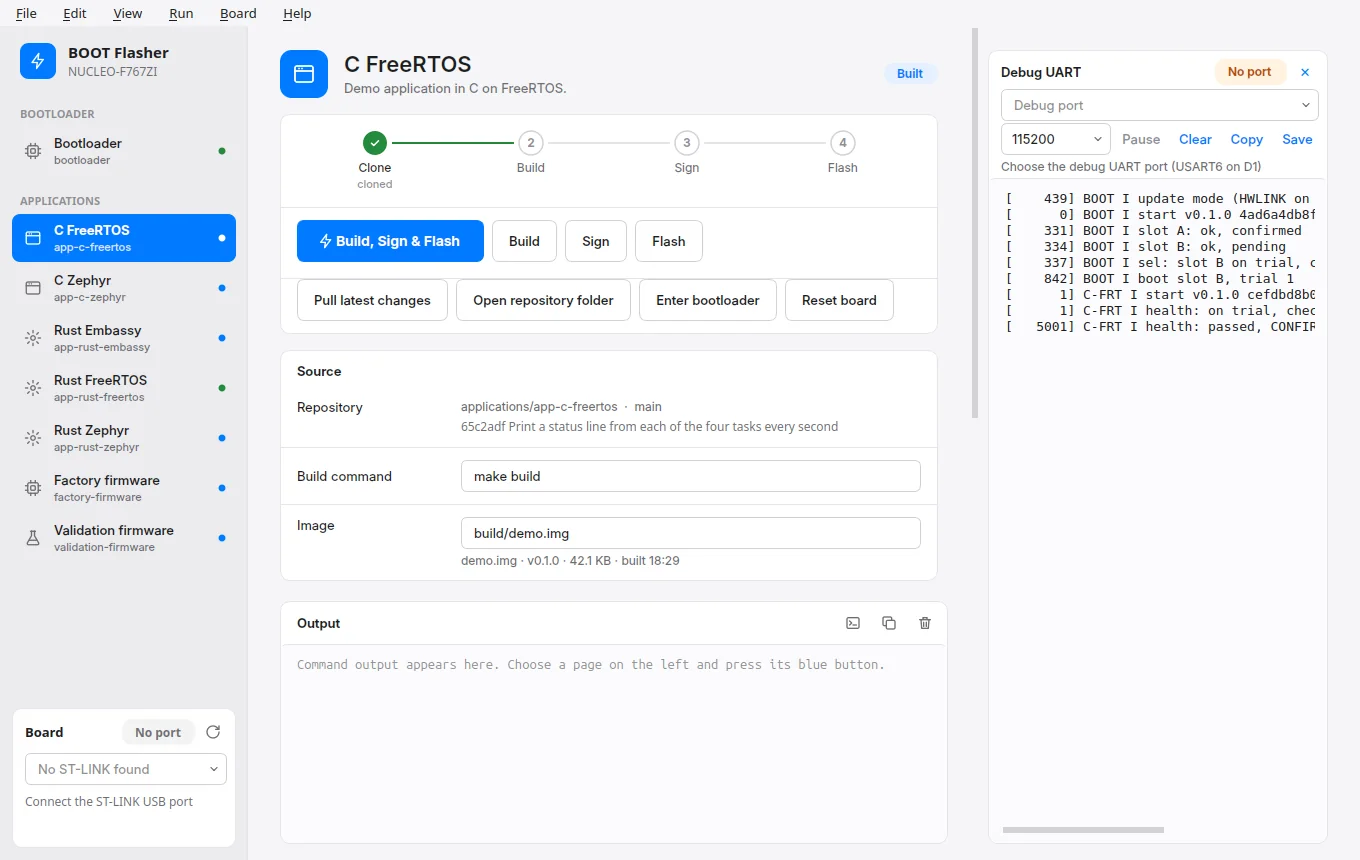
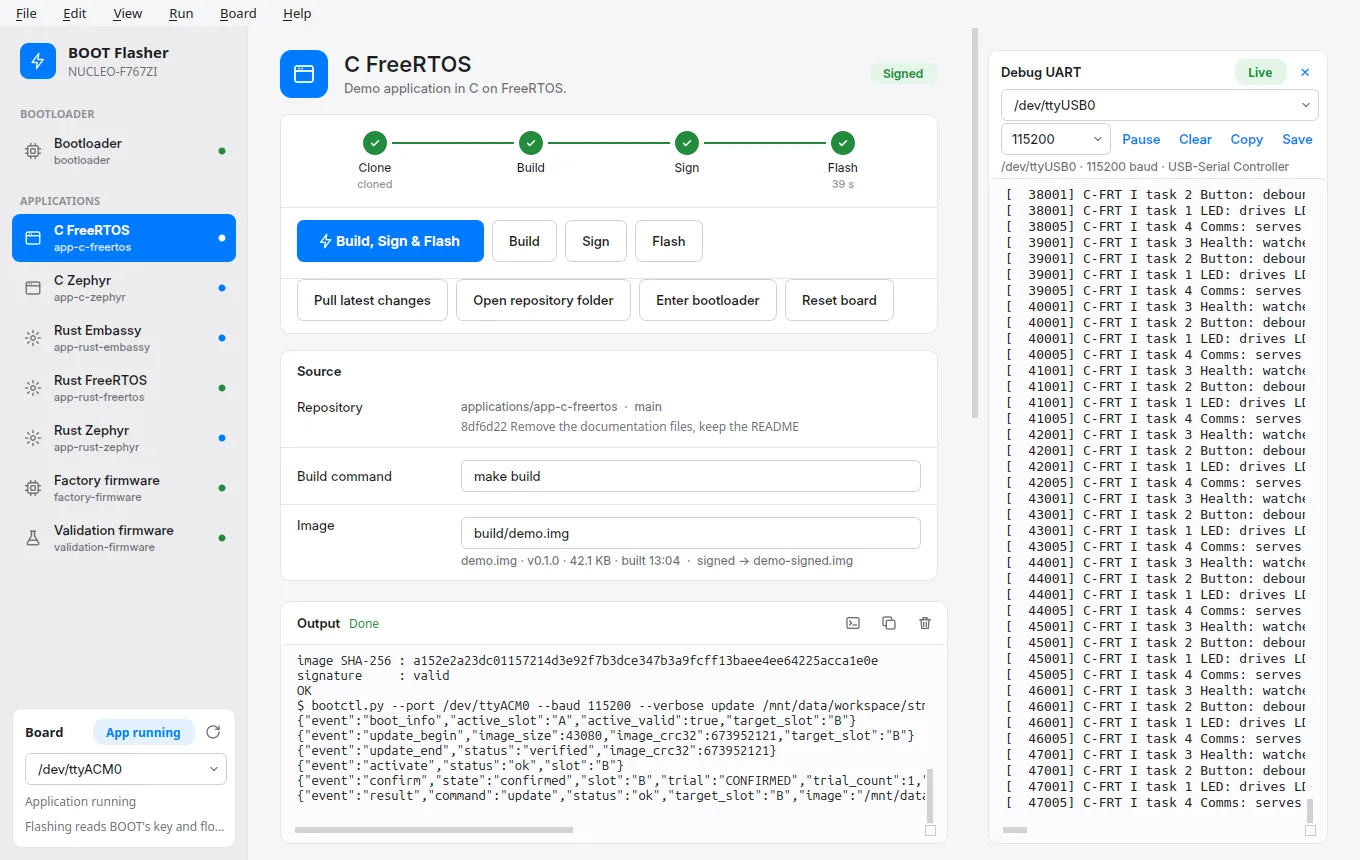
Use real screenshots of BOOT Flasher and HWVAL Factory
Capture BOOT Flasher after a real Build, Sign & Flash of the C FreeRTOS app
onto the NUCLEO board (the four steps, the bootctl output and the live debug
UART), and HWVAL Factory's Detect page on the same bench with the ST-LINK probe
and UART ports it found. Both apps ran under Xvfb with the serial ports
visible. Update the captions, alt texts, hero reel text and README to match.
HWVAL Studio is still the simulator capture.

diff --git a/index.html b/index.html
@@ -216,7 +216,7 @@
 <span class="tg b">BOOT</span> slot B: ok, confirmed
 <span class="tg b">BOOT</span> sel: slot A confirmed, count 0
 <span class="tg b">BOOT</span> listen: 500 ms for a host</span><span class="mono">BOOT console</span></button>
-          <button class="reel-item" type="button" role="tab" aria-selected="false" tabindex="-1" id="shot-tab-2" aria-controls="shot-panel" data-src="assets/shots/bootloader-gui.webp" data-kind="gui" data-title="BOOT Flasher" data-tag="" data-caption="BOOT Flasher · build, sign and flash from one window" data-alt="BOOT Flasher: the C FreeRTOS page with its clone, build, sign and flash steps and the debug terminal"><img src="assets/shots/bootloader-gui.webp" width="1360" height="860" alt="" loading="lazy" decoding="async"><span class="mono">BOOT Flasher</span></button>
+          <button class="reel-item" type="button" role="tab" aria-selected="false" tabindex="-1" id="shot-tab-2" aria-controls="shot-panel" data-src="assets/shots/bootloader-gui.webp" data-kind="gui" data-title="BOOT Flasher" data-tag="" data-caption="BOOT Flasher · a real build, sign and flash onto the board" data-alt="BOOT Flasher after flashing the C FreeRTOS app to the board: all four steps done, the bootctl output and the live debug log"><img src="assets/shots/bootloader-gui.webp" width="1360" height="860" alt="" loading="lazy" decoding="async"><span class="mono">BOOT Flasher</span></button>
           <button class="reel-item" type="button" role="tab" aria-selected="false" tabindex="-1" id="shot-tab-3" aria-controls="shot-panel" data-term="app-c" data-kind="term" data-title="C-FRT · USART6" data-tag="Recorded from the board" data-caption="C · FreeRTOS console · trial boot, then confirmed" data-alt="Terminal: BOOT trial-boots slot B, the C FreeRTOS app starts and its health check confirms the image"><span class="mini-term" aria-hidden="true"><span class="tg b">BOOT</span> boot slot A, trial 1
 <span class="tg a">C-FRT</span> start v0.1.0 3ff655da981d, slot A on trial, 
 <span class="tg a">C-FRT</span> health: on trial, check in 5000 ms
@@ -281,7 +281,7 @@
 <span class="tg a">C-FRT</span> task 1 LED: drives LD1-LD3 patterns, LD3 sho
 <span class="tg a">C-FRT</span> task 3 Health: watches task check-ins, kicks
 <span class="tg a">C-FRT</span> task 4 Comms: answers the factory station: r</span><span class="mono">Factory firmware</span></button>
-          <button class="reel-item" type="button" role="tab" aria-selected="false" tabindex="-1" id="shot-tab-11" aria-controls="shot-panel" data-src="assets/shots/factory-station.webp" data-kind="gui" data-title="HWVAL Factory" data-tag="" data-caption="HWVAL Factory · validation page on the simulator" data-alt="HWVAL Factory: the validation page with the checks of a simulated board"><img src="assets/shots/factory-station.webp" width="1360" height="860" alt="" loading="lazy" decoding="async"><span class="mono">HWVAL Factory</span></button>
+          <button class="reel-item" type="button" role="tab" aria-selected="false" tabindex="-1" id="shot-tab-11" aria-controls="shot-panel" data-src="assets/shots/factory-station.webp" data-kind="gui" data-title="HWVAL Factory" data-tag="" data-caption="HWVAL Factory · Detect page, the probe and UART port found" data-alt="HWVAL Factory: the Detect page with the ST-LINK probe and the UART ports found on the bench"><img src="assets/shots/factory-station.webp" width="1360" height="860" alt="" loading="lazy" decoding="async"><span class="mono">HWVAL Factory</span></button>
           <button class="reel-item" type="button" role="tab" aria-selected="false" tabindex="-1" id="shot-tab-12" aria-controls="shot-panel" data-src="assets/shots/factory-data-gui.webp" data-kind="gui" data-title="Factory Data" data-tag="" data-caption="Factory Data · CSV to .sys, .cal and .diag files" data-alt="Factory Data: the System info page with records loaded from a CSV"><img src="assets/shots/factory-data-gui.webp" width="1360" height="860" alt="" loading="lazy" decoding="async"><span class="mono">Factory Data</span></button>
         </div>
       </div>
@@ -329,8 +329,8 @@
     </div>
     <div class="split media">
       <figure class="media-col">
-        <div class="win"><div class="win-bar"><span class="lights" aria-hidden="true"><i></i><i></i><i></i></span><span class="win-title mono">BOOT Flasher</span></div><img src="assets/shots/bootloader-gui.webp" width="1360" height="860" alt="BOOT Flasher: the C FreeRTOS page with its clone, build, sign and flash steps and the debug terminal" loading="lazy" decoding="async"></div>
-        <figcaption class="fig-cap mono">Screenshot · BOOT Flasher on the C <span class="brand">FreeRTOS</span> page, with the debug terminal showing a recorded board log</figcaption>
+        <div class="win"><div class="win-bar"><span class="lights" aria-hidden="true"><i></i><i></i><i></i></span><span class="win-title mono">BOOT Flasher</span></div><img src="assets/shots/bootloader-gui.webp" width="1360" height="860" alt="BOOT Flasher after flashing the C FreeRTOS app to the board: all four steps done, the bootctl output and the live debug log" loading="lazy" decoding="async"></div>
+        <figcaption class="fig-cap mono">Screenshot · BOOT Flasher after a real Build, Sign &amp; Flash of the C <span class="brand">FreeRTOS</span> app onto the board, with the debug log live</figcaption>
       </figure>
       <article class="panel spec"><div class="panel-head"><span class="mono">Python · PySide6</span></div><h3>Features</h3><ul class="feature-list"><li>One window: build, sign and flash without command lines</li><li>A full pipeline: clone, build, sign and upload each firmware project</li><li>Docker or host builds: falls back to Docker when the vendor SDK is missing</li><li>Offline signing: choose the signing key; no network needed</li><li>A board panel: version, both slots, trusted key and security floor</li><li>SWD buttons: program, provision, reset and erase the board</li><li>A live debug terminal: stays open while the board is being flashed</li><li>A recovery path: gets a board back into the bootloader when the app is silent</li><li>Light and dark themes: follow the system; keyboard shortcuts for the pipeline</li><li>Python and PySide6: a thin front-end over the bootloader's own tools, with tests</li></ul></article>
     </div>
@@ -500,8 +500,8 @@
     </div>
     <div class="split media">
       <figure class="media-col">
-        <div class="win"><div class="win-bar"><span class="lights" aria-hidden="true"><i></i><i></i><i></i></span><span class="win-title mono">HWVAL Factory</span></div><img src="assets/shots/factory-station.webp" width="1360" height="860" alt="HWVAL Factory: the validation page with the pass and incomplete checks of a simulated board" loading="lazy" decoding="async"></div>
-        <figcaption class="fig-cap mono">Screenshot · HWVAL Factory running its validation page on the simulator</figcaption>
+        <div class="win"><div class="win-bar"><span class="lights" aria-hidden="true"><i></i><i></i><i></i></span><span class="win-title mono">HWVAL Factory</span></div><img src="assets/shots/factory-station.webp" width="1360" height="860" alt="HWVAL Factory: the Detect page with the ST-LINK probe and the UART ports found on the bench" loading="lazy" decoding="async"></div>
+        <figcaption class="fig-cap mono">Screenshot · HWVAL Factory's Detect page on the real bench: the ST-LINK probe and the UART ports it found</figcaption>
       </figure>
       <article class="panel spec"><div class="panel-head"><span class="mono">Python · PySide6 · OpenOCD</span></div><h3>Features</h3><ul class="feature-list"><li>A guided flow: from a blank board to a provisioned unit</li><li>Probe and port detection: finds ST-LINK probes and UART ports</li><li>Bootloader over SWD: programmed after the dual-bank option bytes are set</li><li>Signed factory firmware: installed through the bootloader with your key</li><li>Per-unit data: system info from a CSV database; calibration and diagnostics over UART</li><li>Read-back checks: every write is read back and compared</li><li>Identity protection: an address check guards the device identity record</li><li>A validation page: self-test of chip, flash, clock and RAM, with a saved report</li><li>Up to eight fixtures: in parallel on one PC; a full simulator runs every step</li><li>PIN login by role: SQLite database; automated tests and lint for the station</li></ul></article>
     </div>

diff --git a/README.md b/README.md
@@ -34,9 +34,14 @@ to `main` deploys the site with GitHub Pages.
 
 The pictures in `assets/shots/` are real captures, not mock-ups:
 
-- `bootloader-gui`, `validation-gui` and `factory-station` were taken from the
-  running applications on their built-in simulators (BOOT Flasher without a
-  board attached).
+- `bootloader-gui` is BOOT Flasher after a real Build, Sign & Flash of the C
+  FreeRTOS app onto the NUCLEO-F767ZI: the four steps, the `bootctl` output and
+  the debug UART read live from USART6. The application ran under Xvfb with the
+  serial ports visible and was driven only through its own button.
+- `factory-station` is HWVAL Factory's Detect page on the same bench: the
+  ST-LINK probe and the UART ports it found. Detecting only lists devices.
+- `validation-gui` still comes from the application's built-in simulator, which
+  is why it shows 196 tests; the real firmware reports 201.
 - `factory-data-gui` is regenerated by `make shots` (`ci/capture_screens.py`),
   which runs the Factory Data GUI under Xvfb. It needs Pillow, a Chromium
   binary, Xvfb, PySide6 and the sibling `factory-data-gui` checkout.
